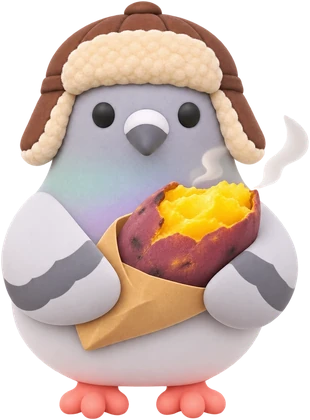
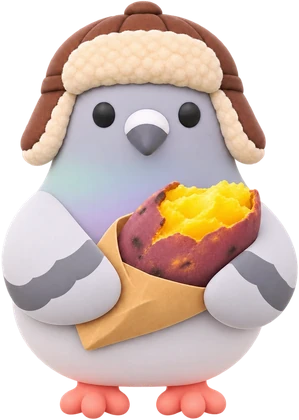
Season card polish: new fox, dog, pigeon and summer art; falling maple leaves (autumn) and slow slanted drizzle (summer); pigeon speech bubble and rising steam; characters sit 10px lower, spring and summer raised

diff --git a/prototype/index.html b/prototype/index.html
@@ -215,7 +215,21 @@ h1,h2,h3{text-wrap:balance}
 .card.season > :not(.fall):not(.season-art){position:relative}
 /* character sits right above the 모이는 날 box; its bottom tucks behind the box */
 .art-anchor{height:0}
-.season-art{position:absolute;right:20px;bottom:-34px;width:100px;height:auto;pointer-events:none}
+.season-art{position:absolute;right:20px;bottom:-44px;width:100px;height:auto;pointer-events:none}
+.season-art.a-spring-koala{bottom:-36px}
+.season-art.a-summer-babsae{bottom:-28px}
+/* speech bubble next to the character: two lines take turns */
+.art-say{position:absolute;right:102px;bottom:58px;display:grid;padding:5px 9px;border-radius:12px 12px 3px 12px;background:var(--surface);box-shadow:0 1px 4px rgba(0,0,0,.14);font-size:11.5px;font-weight:700;line-height:1.25;color:var(--ink);white-space:nowrap;pointer-events:none;z-index:1}
+.art-say > span{grid-area:1/1;text-align:center;animation:say 5s ease-in-out infinite}
+.art-say > span + span{animation-delay:-2.5s}
+@keyframes say{0%,8%{opacity:0;transform:translateY(3px)}14%,46%{opacity:1;transform:none}52%,100%{opacity:0;transform:translateY(-3px)}}
+/* steam rising from the sweet potato */
+.steam{position:absolute;right:36px;bottom:34px;width:36px;height:30px;pointer-events:none}
+.steam i{position:absolute;bottom:0;width:9px;height:9px;border-radius:50%;background:radial-gradient(circle,rgba(255,255,255,.95) 35%,rgba(255,255,255,0) 72%);filter:drop-shadow(0 0 1px rgba(120,120,135,.35));opacity:0;animation:steam 2.6s ease-out infinite}
+.steam i:nth-child(1){left:4px}
+.steam i:nth-child(2){left:15px;animation-delay:-.87s}
+.steam i:nth-child(3){left:26px;animation-delay:-1.73s}
+@keyframes steam{0%{transform:translate(0,2px) scale(.5);opacity:0}20%{opacity:.95}55%{transform:translate(4px,-9px) scale(1)}100%{transform:translate(-3px,-22px) scale(1.6);opacity:0}}
 .card.has-art .eyebrow,.card.has-art .h2,.card.has-art .sub-msg{padding-right:112px}
 .edit-chip.inl{margin-left:2px}
 .s-winter{--sea:var(--sea-winter)} .s-spring{--sea:var(--sea-spring)} .s-summer{--sea:var(--sea-summer)} .s-autumn{--sea:var(--sea-autumn)}
@@ -223,6 +237,11 @@ h1,h2,h3{text-wrap:balance}
 .fall{position:absolute;inset:0 0 auto 0;height:210px;pointer-events:none;overflow:hidden}
 .fall i{position:absolute;top:-14px;left:var(--x);width:var(--s);height:var(--s);opacity:0;animation:fall var(--d) linear var(--w) infinite}
 .fall .flake{border-radius:50%;background:#fff;box-shadow:0 0 3px rgba(120,160,210,.35)}
+.fall .drop{width:1.5px;height:var(--s);border-radius:2px;background:linear-gradient(rgba(90,165,215,0),rgba(90,165,215,.7));animation-name:rain;animation-timing-function:linear}
+@keyframes rain{0%{transform:translate(0,0) rotate(20deg);opacity:0}12%{opacity:var(--o)}88%{opacity:var(--o)}100%{transform:translate(-78px,215px) rotate(20deg);opacity:0}}
+.fall .leaf{width:var(--s);height:var(--s);clip-path:polygon(50% 0,56% 14%,64% 10%,62% 30%,74% 22%,78% 30%,90% 26%,86% 40%,100% 44%,84% 56%,88% 64%,66% 62%,60% 72%,53% 68%,53% 100%,47% 100%,47% 68%,40% 72%,34% 62%,12% 64%,16% 56%,0 44%,14% 40%,10% 26%,22% 30%,26% 22%,38% 30%,36% 10%,44% 14%);background:linear-gradient(135deg,#F2A541,#D9622B);animation-name:petal}
+.fall .leaf:nth-child(3n+1){background:linear-gradient(135deg,#E8703A,#B8432A)}
+.fall .leaf:nth-child(3n+2){background:linear-gradient(135deg,#E9C04F,#C98A2E)}
 .fall .petal{width:var(--s);height:calc(var(--s) * .75);border-radius:100% 0 100% 0;background:linear-gradient(135deg,#FFC6D6,#FF9DB8);animation-name:petal}
 @keyframes fall{0%{transform:translate(0,0);opacity:0}12%{opacity:var(--o)}50%{transform:translate(10px,105px)}80%{opacity:var(--o)}100%{transform:translate(-6px,215px);opacity:0}}
 @keyframes petal{0%{transform:translate(0,0) rotate(var(--r));opacity:0}12%{opacity:var(--o)}35%{transform:translate(16px,75px) rotate(calc(var(--r) + 120deg))}70%{transform:translate(-10px,150px) rotate(calc(var(--r) + 230deg))}85%{opacity:var(--o)}100%{transform:translate(8px,215px) rotate(calc(var(--r) + 320deg));opacity:0}}
@@ -573,6 +592,11 @@ body{letter-spacing:-.01em}
   /* exception: the small 14px character drop still plays (owner's choice) */
   .fall .flake{animation:fall var(--d) linear var(--w) infinite!important}
   .fall .petal{animation:petal var(--d) linear var(--w) infinite!important}
+  .art-say > span{animation:say 5s ease-in-out infinite!important}
+  .art-say > span + span{animation-delay:-2.5s!important}
+  .steam i{animation:steam 2.6s ease-out infinite!important}
+  .fall .leaf{animation:petal var(--d) linear var(--w) infinite!important}
+  .fall .drop{animation:rain var(--d) linear var(--w) infinite!important}
   .members.intro .fig .char{animation:drop .34s cubic-bezier(.25,.8,.35,1) both!important;animation-delay:calc(60ms + var(--i, 0) * 70ms)!important}
   .members.intro .fig.bday-on .burst i{animation:pop .9s cubic-bezier(.15,.7,.3,1) both!important;animation-delay:calc(400ms + var(--i, 0) * 70ms + var(--j, 0) * 25ms)!important}
   .prof .fig.bday-on .burst i{animation:pop .9s cubic-bezier(.15,.7,.3,1) both!important;animation-delay:calc(250ms + var(--j, 0) * 25ms)!important}
@@ -873,6 +897,10 @@ function vEmpty() {
 }
 /* 확정된 모임 카드: 모이는 달의 계절 배경 — 겨울 하늘색+눈, 봄 연핑크+벚꽃잎, 여름 연민트, 가을 연베이지 */
 /* 확정 카드 오른쪽 위 캐릭터: 모임 달 기준 (그림이 있는 것만) */
+// Little moving extras on top of a character (speech bubble, steam).
+const ART_EXTRA = {
+  'autumn-pigeon': `<span class="art-say"><span>고구마 사세요~</span><span>고구마 맛있어요</span></span><span class="steam"><i></i><i></i><i></i></span>`,
+};
 const ART_READY = ['winter-fox', 'spring-koala', 'summer-babsae', 'autumn-pigeon', 'lateautumn-dog'];
 function seasonArt(k) {
   const mo = parse(k).getMonth() + 1;
@@ -881,10 +909,13 @@ function seasonArt(k) {
 }
 const season = k => ['winter', 'winter', 'spring', 'spring', 'spring', 'summer', 'summer', 'summer', 'autumn', 'autumn', 'autumn', 'winter'][parse(k).getMonth()];
 function fall(se) {
-  const kind = se === 'winter' ? 'flake' : se === 'spring' ? 'petal' : '';
+  const kind = se === 'winter' ? 'flake' : se === 'spring' ? 'petal' : se === 'autumn' ? 'leaf' : se === 'summer' ? 'drop' : '';
   if (!kind) return '';
-  return `<div class="fall" aria-hidden="true">${Array.from({ length: kind === 'flake' ? 16 : 12 }, (_, i) =>
-    `<i class="${kind}" style="--x:${(i * 37 + 11) % 100}%;--s:${(kind === 'flake' ? 4 : 8) + (i * 7) % 5}px;--d:${(kind === 'flake' ? 5 : 6) + (i * 13) % 5}s;--w:${-((i * 29) % 60) / 10}s;--o:${(0.55 + ((i * 17) % 40) / 100).toFixed(2)};--r:${(i * 47) % 360}deg"></i>`).join('')}</div>`;
+  const n = { flake: 16, petal: 12, leaf: 10, drop: 20 }[kind], size = { flake: 4, petal: 8, leaf: 13, drop: 8 }[kind];
+  // seconds to fall through the card: rain is quick, the rest drift
+  const dur = i => kind === 'drop' ? (3 + ((i * 13) % 5) * 0.35).toFixed(2) : { flake: 5, petal: 6, leaf: 7 }[kind] + (i * 13) % 5;
+  return `<div class="fall" aria-hidden="true">${Array.from({ length: n }, (_, i) =>
+    `<i class="${kind}" style="--x:${(i * 37 + 11) % 100 + (kind === 'drop' ? 15 : 0)}%;--s:${size + (i * 7) % 5}px;--d:${dur(i)}s;--w:${-((i * 29) % (kind === 'drop' ? 45 : 60)) / 10}s;--o:${(0.55 + ((i * 17) % 40) / 100).toFixed(2)};--r:${(i * 47) % 360}deg"></i>`).join('')}</div>`;
 }
 function vHome() {
   if (!cur()) return vEmpty();
@@ -902,7 +933,7 @@ function vHome() {
     <div class="eyebrow">${label(m)} ${stagePill(m)}<button class="chipbtn edit-chip${art ? ' inl' : ''}" data-act="edit" data-v="${m.id}">수정</button></div>
     <h2 class="h2">${esc(m.title)}</h2>
     ${m.confirmed ? `<p class="range sub-msg">${esc(subMsg(m))}</p>` : `<p class="range">후보 ${fmt(m.start)} ~ ${fmt(m.end)}</p>`}
-    ${art ? `<div class="art-anchor" aria-hidden="true"><img class="season-art" src="assets/season/${art}.webp" alt=""></div>` : ''}
+    ${art ? `<div class="art-anchor" aria-hidden="true"><img class="season-art a-${art}" src="assets/season/${art}.webp" alt="">${ART_EXTRA[art] || ''}</div>` : ''}
     ${m.confirmed ? planBlock(m) : ''}
     ${membersOpen()}${MEMBERS.map((x, i) => { const ok = ent.includes(x.id); return `<div class="mem ${x.id === meIn ? 'me' : ''} ${ok ? '' : 'pending'} ${cheers(i) ? 'cheer' : ''}" style="--i:${i}" role="button" tabindex="0" data-act="profile" data-v="${x.id}" aria-label="${x.name} 프로필">${figure(x, ok, x.name + (ok ? '' : ' (아직)'))}<span class="nm">${x.name}</span><span class="st ${ok ? 'ok' : ''}">${ok ? '완료' : '아직'}</span></div>`; }).join('')}</div>
     ${!m.confirmed && top ? `<div class="best"><span class="k">지금 가장 좋은 날</span><b>${fmt(top.d)}</b><span style="margin-left:auto;color:var(--accent);font-weight:700">${top.who.length}명</span></div>` : ''}
